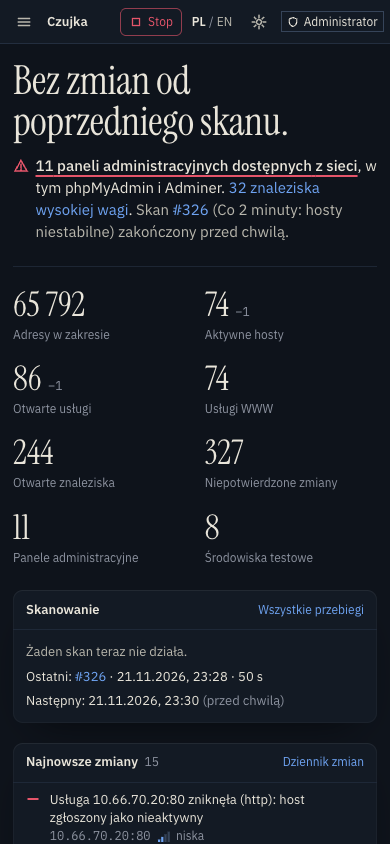
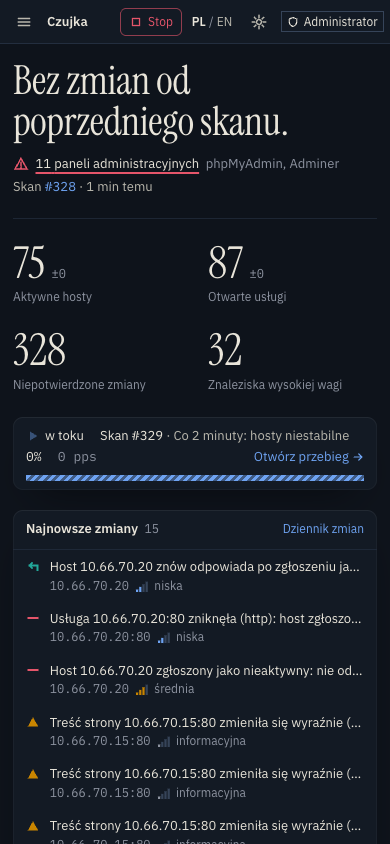
feat(web): dashboard: one statement, four numbers, the change list as the object; running scan as one line with a thin bar; one-line change rows

diff --git a/web/src/pages/Dashboard.tsx b/web/src/pages/Dashboard.tsx
@@ -3,23 +3,22 @@ import { Link, Navigate } from 'react-router';
 import { SETUP_DONE_KEY } from './Setup';
 import { useItem, usePage } from '../api/hooks';
 import type { Change, Dashboard as Dash, Page, RunMap, ScanProfile, ScanRun, Scope, Service } from '../api/types';
-import { t, plural, getLang } from '../i18n';
+import { t, plural } from '../i18n';
 import { cx, fmtDateTime, fmtDec, fmtDuration, fmtInt, fmtPct, fmtRelative, fmtSigned, titleWithoutAddress } from '../lib/format';
 import { useLiveRun, useNow } from '../lib/hooks';
 import { ErrorState, Panel, SkeletonRows } from '../ui/kit';
 import { Icon } from '../ui/Icon';
 import { ClassChips, Glyph, InterestScore, RunStatusMark, Sev, changeKindInfo, type GlyphName, type Tone } from '../ui/marks';
-import { AddressMap } from '../viz/AddressMap';
-import { BarList, PacketCount, ProgressBar, RateGauge, TrendRows } from '../viz/charts';
+import { BarList, ProgressBar, TrendRows } from '../viz/charts';
 import { useSession } from '../session';
 import { RunStory } from '../ui/RunStory';
 import { useHostVerdicts } from '../ui/MissingHosts';
-import { PartialNote, RunPasses } from '../ui/RunPasses';
+import { PartialNote } from '../ui/RunPasses';
 import { useArrivalOrder } from '../ui/arrivalOrder';
 import { SMALL_RUN } from './RunDetail';
 import { serviceName } from '../lib/serviceName';
 import { ReprobePanel } from './Reprobe';
-import { ATTENTION_INTEREST, adminPanelNames, adminPanelServiceNames, changeParts, isFullRun, lastFullPair, partialRunPhrase } from '../lib/headline';
+import { ATTENTION_INTEREST, adminPanelNames, adminPanelServiceNames, isFullRun, lastFullPair, partialRunPhrase } from '../lib/headline';
 import { changeSummary } from '../lib/changeText';
 
 function Count({ n, glyph, tone, label, to }: { n: number; glyph: GlyphName; tone: Tone; label: string; to: string }) {
@@ -83,42 +82,26 @@ function Handover({ d, full }: { d: Dash; full?: ScanRun | null }) {
   const panels = adminPanelNames(open);
   const attention = h.admin_panels > 0 || h.findings_high > 0 || important.length > 0;
   const named = (panels.length ? panels : adminPanelServiceNames(d.top_services ?? [])).slice(0, 2);
-  const parts = s ? changeParts({ added, gone, changed, missing, unstable: s.hosts_unstable, returned, slower, recovered, confirmedGone }, getLang(), plural) : [];
   const headline = baseline
     ? t('Pierwszy obraz sieci: ' + fmtInt(h.hosts_up) + ' ' + plural(h.hosts_up, ['aktywny host', 'aktywne hosty', 'aktywnych hostów'], ['', '']) + ', ' + fmtInt(h.services_open) + ' ' + plural(h.services_open, ['otwarta usługa', 'otwarte usługi', 'otwartych usług'], ['', '']) + '.',
       'First picture of the network: ' + fmtInt(h.hosts_up) + ' ' + (h.hosts_up === 1 ? 'host' : 'hosts') + ' up, ' + fmtInt(h.services_open) + ' open ' + (h.services_open === 1 ? 'service' : 'services') + '.')
     : quiet
       ? t('Bez zmian od poprzedniego skanu.', 'No change since the previous scan.')
-      : t('Od poprzedniego skanu: ', 'Since the previous scan: ') + parts.join(', ') + '.';
+      : (() => { const n = added + gone + changed + missing + s!.hosts_unstable + returned + slower + recovered + confirmedGone; return t(fmtInt(n) + ' ' + plural(n, ['zmiana', 'zmiany', 'zmian'], ['', '']) + ' od poprzedniego skanu.', fmtInt(n) + ' ' + (n === 1 ? 'change' : 'changes') + ' since the previous scan.'); })();
   return (
     <div>
       <p className="font-display max-w-[30ch] text-[40px] leading-[1.02] tracking-[-0.01em] text-ink sm:text-[52px] xl:text-[60px]" data-testid="handover">{headline}</p>
-      <p className={cx('mt-4 flex max-w-[80ch] items-start gap-2 text-base', attention ? 'text-ink' : 'text-ink-2')} data-testid="handover-attention">
-        {attention ? <Icon name="alert" className="mt-[3px] flex-none text-st-gone" /> : <Icon name="check" className="mt-[3px] flex-none text-st-new" />}
+      <p className="mt-4 flex flex-wrap items-center gap-x-6 gap-y-1.5 text-sm text-ink-2" data-testid="handover-attention">
+        {h.admin_panels > 0 ? (
+          <Link to="/services?class=admin-panel" className="inline-flex items-center gap-2 text-ink hover:text-ink">
+            <Icon name="alert" className="flex-none text-st-gone" />
+            <span className="underline decoration-[var(--st-gone)] decoration-2 underline-offset-4">{fmtInt(h.admin_panels)} {plural(h.admin_panels, ['panel administracyjny', 'panele administracyjne', 'paneli administracyjnych'], ['admin panel', 'admin panels'])}</span>
+            {named.length ? <span className="text-ink-3">{named.join(', ')}</span> : null}
+          </Link>
+        ) : attention ? null : <span className="inline-flex items-center gap-2"><Icon name="check" className="flex-none text-st-new" />{t('Nic pilnego', 'Nothing urgent')}</span>}
         <span>
-          {h.admin_panels > 0 ? (
-            <>
-              <Link to="/services?class=admin-panel" className="font-medium underline decoration-[var(--st-gone)] decoration-2 underline-offset-4 hover:decoration-[var(--ink)]">
-                {fmtInt(h.admin_panels)} {plural(h.admin_panels, ['panel administracyjny dostępny', 'panele administracyjne dostępne', 'paneli administracyjnych dostępnych'], ['admin panel reachable', 'admin panels reachable'])} {t('z sieci', 'from the network')}
-              </Link>
-              {named.length ? <>{t(', w tym ', ', including ')}{named.join(t(' i ', ' and '))}</> : null}.
-              {h.findings_high > 0 ? <> <Link to="/findings?severity=high&status=new,triaged" className="link">{h.findings_high} {plural(h.findings_high, ['znalezisko wysokiej wagi', 'znaleziska wysokiej wagi', 'znalezisk wysokiej wagi'], ['high-severity finding', 'high-severity findings'])}</Link>.</> : null}
-            </>
-          ) : h.findings_high > 0 ? (
-            <>
-              <Link to="/findings?severity=high&status=new,triaged" className="font-medium underline decoration-[var(--st-gone)] decoration-2 underline-offset-4 hover:decoration-[var(--ink)]">
-                {h.findings_high} {plural(h.findings_high, ['znalezisko wysokiej wagi', 'znaleziska wysokiej wagi', 'znalezisk wysokiej wagi'], ['high-severity finding', 'high-severity findings'])}
-              </Link>
-              {' '}{t(plural(h.findings_high, ['wymaga', 'wymagają', 'wymaga'], ['', '']) + ' uwagi.', (h.findings_high === 1 ? 'needs' : 'need') + ' attention.')}
-            </>
-          ) : important.length ? (
-            <>{t('Najważniejsze: ', 'Most important: ')}<Link to={'/findings?status=new,triaged'} className="font-medium link">{important[0].title}</Link>{important.length > 1 ? t(' i ' + (important.length - 1) + ' innych.', ' and ' + (important.length - 1) + ' more.') : '.'}</>
-          ) : t('Nic nie wymaga uwagi: żadne otwarte znalezisko nie ma wysokiej wagi ani ciekawości od ' + ATTENTION_INTEREST + '.', 'Nothing needs attention: no open finding has high severity or interest from ' + ATTENTION_INTEREST + '.')}
-          {' '}
-          <span className="text-ink-2">
-            {t('Skan', 'Run')} <Link to={'/runs/' + run.id} className="num link">#{run.id}</Link>{run.profile_name ? <> ({run.profile_name})</> : null} {t('zakończony', 'finished')} {fmtRelative(run.finished_at)}.
-            {baseline ? ' ' + t('To punkt odniesienia: kolejne skany pokażą, co się zmieniło.', 'This is the baseline: the next scans show what changed.') : null}
-          </span>
+          {t('Skan', 'Run')} <Link to={'/runs/' + run.id} className="num link">#{run.id}</Link> · {fmtRelative(run.finished_at)}
+          {baseline ? <span className="text-ink-3"> · {t('punkt odniesienia', 'baseline')}</span> : null}
         </span>
       </p>
       {partial ? (
@@ -151,7 +134,7 @@ function Stat({ label, value, delta, deltaTitle, to, mono = true }: { label: str
   const inner = (
     <>
       <dd className="flex items-baseline gap-2">
-        <span className={cx('text-ink', mono ? 'font-display text-[34px] leading-none sm:text-[40px]' : 'text-base font-medium')}>{value}</span>
+        <span className={cx('text-ink', mono ? 'font-display text-[44px] leading-none sm:text-[56px]' : 'text-base font-medium')}>{value}</span>
         {delta !== undefined && delta !== null ? (
           <span className="num text-xs text-ink-3" title={deltaTitle ?? t('zmiana względem poprzedniego skanu', 'change against the previous scan')}>{delta === 0 ? '±0' : fmtSigned(delta)}</span>
         ) : null}
@@ -172,15 +155,11 @@ function Inventory({ d, pair }: { d: Dash; pair?: { full?: ScanRun; prev?: ScanR
   const dServices = full && prev ? full.stats.services_open - prev.stats.services_open : null;
   const deltaTitle = full && prev ? t('zmiana między pełnymi skanami #' + prev.id + ' i #' + full.id + (full.profile_name ? ' (' + full.profile_name + ')' : ''), 'change between the full scans #' + prev.id + ' and #' + full.id + (full.profile_name ? ' (' + full.profile_name + ')' : '')) : undefined;
   return (
-    <dl className="grid grid-cols-2 gap-x-6 gap-y-3 sm:grid-cols-4 xl:grid-cols-8" data-testid="dash-numbers">
-      <Stat label={t('Adresy w zakresie', 'Addresses in scope')} value={fmtInt(h.addresses_in_scope)} to="/targets" />
+    <dl className="grid max-w-[1100px] grid-cols-2 gap-x-8 gap-y-4 sm:grid-cols-4" data-testid="dash-numbers">
       <Stat label={t('Aktywne hosty', 'Hosts up')} value={fmtInt(h.hosts_up)} delta={dHosts} deltaTitle={deltaTitle} to="/hosts?status=up" />
       <Stat label={t('Otwarte usługi', 'Open services')} value={fmtInt(h.services_open)} delta={dServices} deltaTitle={deltaTitle} to="/services?state=open" />
-      <Stat label={t('Usługi WWW', 'Web services')} value={fmtInt(h.web_services)} to="/services?name=http" />
-      <Stat label={t('Otwarte znaleziska', 'Open findings')} value={fmtInt(h.findings_open)} to="/findings?status=new,triaged" />
       <Stat label={t('Niepotwierdzone zmiany', 'Unacknowledged changes')} value={fmtInt(h.changes_unacked)} to="/changes?acked=false&expected=false" />
-      <Stat label={t('Panele administracyjne', 'Admin panels')} value={fmtInt(h.admin_panels)} to="/services?class=admin-panel" />
-      <Stat label={t('Środowiska testowe', 'Staging environments')} value={fmtInt(h.staging_envs)} to="/services?class=staging" />
+      <Stat label={t('Znaleziska wysokiej wagi', 'High-severity findings')} value={fmtInt(h.findings_high)} to="/findings?severity=high&status=new,triaged" />
     </dl>
   );
 }
@@ -202,7 +181,7 @@ function LivePorts({ runId }: { runId: number }) {
   );
 }
 
-function ActiveRun({ initial, d }: { initial: ScanRun; d: Dash }) {
+function ActiveRun({ initial }: { initial: ScanRun; d?: Dash }) {
   const { can } = useSession();
   const live = useLiveRun(initial.id);
   const run = live.run.data ?? initial;
@@ -211,52 +190,34 @@ function ActiveRun({ initial, d }: { initial: ScanRun; d: Dash }) {
   const s = run.stats;
   const pct = s.addresses_total ? s.addresses_done / s.addresses_total : 0;
   const small = s.addresses_total > 0 && s.addresses_total <= SMALL_RUN;
+  const activeAddrs = (map.data?.blocks ?? []).filter((b) => b.status === 'running').reduce((a, b) => a + b.size, 0);
+  void profile;
   return (
-    <Panel
-      title={<><RunStatusMark status={run.status} pauseReason={run.pause_reason} /> <span className="font-normal text-ink-2">· {t('skan', 'run')} <span className="num">#{run.id}</span> · {run.profile_name}</span></>}
-      actions={<Link to={'/runs/' + run.id} className="link inline-flex items-center gap-1 whitespace-nowrap">{t('Otwórz przebieg', 'Open the run')}<Icon name="arrowRight" size={12} /></Link>}
-    >
-      <div className="grid gap-x-8 gap-y-4 lg:grid-cols-[minmax(0,1fr)_minmax(0,1fr)_auto]">
-        <div>
-          <div className="flex items-baseline justify-between gap-3">
-            {small
-              ? <span><span className="num text-lg font-semibold">{fmtInt(s.services_open)}</span> <span className="text-xs text-ink-3">{plural(s.services_open, ['otwarta usługa', 'otwarte usługi', 'otwartych usług'], ['open service', 'open services'])} {t('do tej pory', 'so far')}</span></span>
-              : <span><span className="num text-lg font-semibold">{fmtPct(pct)}</span> <span className="text-xs text-ink-3">{t('adresów', 'of addresses')}</span></span>}
-            <span className="text-xs text-ink-2">{run.status === 'analyzing' ? t('analiza zmian…', 'analysing changes…') : s.eta_sec > 0 ? <>{t('pozostało', 'remaining')} <span className="num text-ink">{fmtDuration(s.eta_sec)}</span></> : null}</span>
-          </div>
-          <div className="mt-1.5"><ProgressBar value={s.addresses_done} max={s.addresses_total} active={(map.data?.blocks ?? []).filter((b) => b.status === 'running').reduce((a, b) => a + b.size, 0)} label={t('Postęp skanu', 'Scan progress')} /></div>
-          <RunPasses passes={s.passes} className="mt-1.5" />
-          <PartialNote run={run} className="mt-2" />
-          <div className="mt-1 flex justify-between text-2xs text-ink-3">
-            <span className="num">{fmtInt(s.addresses_done)} / {fmtInt(s.addresses_total)}</span>
-            <span>{t('podgrupy', 'chunks')} <span className="num text-ink-2">{s.chunks_done}/{s.chunks_total}</span></span>
-          </div>
-          <dl className="mt-3 flex gap-6 text-xs text-ink-2">
-            <div><dt className="text-ink-3">{t('aktywne hosty', 'hosts up')}</dt><dd className="num text-sm text-ink">{fmtInt(s.hosts_up)}</dd></div>
-            <div><dt className="text-ink-3">{t('usługi', 'services')}</dt><dd className="num text-sm text-ink">{fmtInt(s.services_open)}</dd></div>
-            <div><dt className="text-ink-3">{t('czas', 'elapsed')}</dt><dd className="num text-sm text-ink">{fmtDuration(s.elapsed_sec)}</dd></div>
-            <div><dt className="text-ink-3">{t('pakiety prób', 'probe packets')}</dt><dd className="text-sm text-ink"><PacketCount sent={s.packets_sent} estimated={s.packets_estimated} /></dd></div>
-          </dl>
-        </div>
-        <RateGauge current={s.current_pps} cap={Math.min(profile.data?.rate.max_pps ?? d.safety.max_pps, d.safety.max_pps)} policyCap={d.safety.max_pps} basis={s.current_pps_basis} />
-        <div className="min-w-[150px] max-w-[320px]">
-          {small ? <LivePorts runId={run.id} /> : map.data ? <AddressMap blocks={map.data.blocks} compact /> : <div className="skeleton h-[104px] w-[220px]" />}
-        </div>
+    <section className="card px-4 py-3" data-testid="dash-active-run">
+      <div className="flex flex-wrap items-center gap-x-5 gap-y-1 text-sm">
+        <RunStatusMark status={run.status} pauseReason={run.pause_reason} />
+        <Link to={'/runs/' + run.id} className="text-ink hover:underline">{t('Skan', 'Run')} <span className="num">#{run.id}</span> <span className="text-ink-2">· {run.profile_name}</span></Link>
+        <span className="num text-ink">{small ? fmtInt(s.services_open) + ' ' + plural(s.services_open, ['usługa', 'usługi', 'usług'], ['service', 'services']) : fmtPct(pct)}</span>
+        {run.status === 'analyzing' ? <span className="text-ink-2">{t('analiza zmian…', 'analysing changes…')}</span> : s.eta_sec > 0 ? <span className="text-ink-2">{t('pozostało', 'remaining')} <span className="num text-ink">{fmtDuration(s.eta_sec)}</span></span> : null}
+        <span className="num text-ink-3">{fmtInt(s.current_pps)} pps</span>
+        <Link to={'/runs/' + run.id} className="link ml-auto inline-flex items-center gap-1 whitespace-nowrap">{t('Otwórz przebieg', 'Open the run')}<Icon name="arrowRight" size={12} /></Link>
       </div>
-    </Panel>
+      <div className="mt-2.5"><ProgressBar value={s.addresses_done} max={s.addresses_total} active={activeAddrs} label={t('Postęp skanu', 'Scan progress')} /></div>
+      <PartialNote run={run} className="mt-2" />
+      {small ? <div className="mt-3"><LivePorts runId={run.id} /></div> : null}
+    </section>
   );
 }
 
 function IdleRun({ d }: { d: Dash }) {
   const run = d.last_run;
   return (
-    <Panel title={t('Skanowanie', 'Scanning')} actions={<Link to="/runs" className="link">{t('Wszystkie przebiegi', 'All runs')}</Link>}>
-      <div className="flex flex-wrap gap-x-10 gap-y-2 text-sm">
-        <span className="text-ink-2">{t('Żaden skan teraz nie działa.', 'No scan is running now.')}</span>
-        {run ? <span>{t('Ostatni:', 'Last:')} <Link className="link num" to={'/runs/' + run.id}>#{run.id}</Link> · {fmtDateTime(run.finished_at)} · {fmtDuration(run.stats.elapsed_sec)}</span> : null}
-        <span>{t('Następny:', 'Next:')} {d.next_run_at ? <><span className="text-ink">{fmtDateTime(d.next_run_at)}</span> <span className="text-ink-3">({fmtRelative(d.next_run_at)})</span></> : t('brak harmonogramu', 'not scheduled')}</span>
-      </div>
-    </Panel>
+    <section className="flex flex-wrap items-center gap-x-6 gap-y-1 border-y border-rule/70 py-2.5 text-sm text-ink-2" data-testid="dash-idle-run">
+      <span className="inline-flex items-center gap-2"><span className="inline-block h-1.5 w-1.5 rounded-full bg-ink-3" aria-hidden="true" />{t('Żaden skan teraz nie działa', 'No scan is running')}</span>
+      {run ? <span>{t('Ostatni', 'Last')} <Link className="link num" to={'/runs/' + run.id}>#{run.id}</Link> · {fmtDateTime(run.finished_at)} · {fmtDuration(run.stats.elapsed_sec)}</span> : null}
+      <span>{t('Następny', 'Next')} {d.next_run_at ? <><span className="text-ink">{fmtDateTime(d.next_run_at)}</span> <span className="text-ink-3">({fmtRelative(d.next_run_at)})</span></> : t('brak harmonogramu', 'not scheduled')}</span>
+      <Link to="/runs" className="link ml-auto">{t('Wszystkie przebiegi', 'All runs')}</Link>
+    </section>
   );
 }
 
@@ -277,7 +238,7 @@ function RecentChanges({ changes }: { changes: Change[] }) {
           <Row key={c.id} to={c.service_id ? '/services/' + c.service_id : '/hosts/' + c.host_id}>
             <span className="mt-0.5"><Glyph name={c.expected ? 'dashring' : changeKindInfo(c.kind).glyph} tone={c.expected ? 'expected' : changeKindInfo(c.kind).tone} /></span>
             <span className="min-w-0 flex-1">
-              <span className={cx('block text-sm', c.expected ? 'text-ink-2' : 'text-ink')}>{changeSummary(c)}</span>
+              <span className={cx('block truncate text-sm', c.expected ? 'text-ink-2' : 'text-ink')} title={changeSummary(c)}>{changeSummary(c)}</span>
               <span className="mt-0.5 flex flex-wrap items-center gap-x-2 text-xs text-ink-3">
                 <span className="mono">{c.ip}{c.port ? ':' + c.port : ''}</span>
                 {c.expected ? <span>{t('oczekiwana', 'expected')}</span> : <Sev level={c.severity} />}
@@ -436,8 +397,9 @@ export default function Dashboard() {
 
       {d.active_run ? <ActiveRun initial={d.active_run} d={d} /> : <IdleRun d={d} />}
 
-      <div className="grid gap-5 xl:grid-cols-[minmax(0,1.3fr)_minmax(0,1fr)_minmax(0,1fr)]">
+      <div className="grid items-start gap-5 xl:grid-cols-[minmax(0,1.5fr)_minmax(0,1fr)]">
         <RecentChanges changes={d.recent_changes ?? []} />
+        <div className="grid gap-5">
         <Panel title={t('Najważniejsze znaleziska', 'Top findings')} flush actions={<Link to="/findings" className="link">{t('Wszystkie', 'All')}</Link>}>
           {(d.top_findings ?? []).length === 0 ? <p className="p-3 text-sm text-ink-2">{t('Brak otwartych znalezisk.', 'No open finding.')}</p> : null}
           <ul>
@@ -475,6 +437,7 @@ export default function Dashboard() {
             ))}
           </ul>
         </Panel>
+        </div>
       </div>
 
       <div className="grid gap-4 xl:grid-cols-3">
